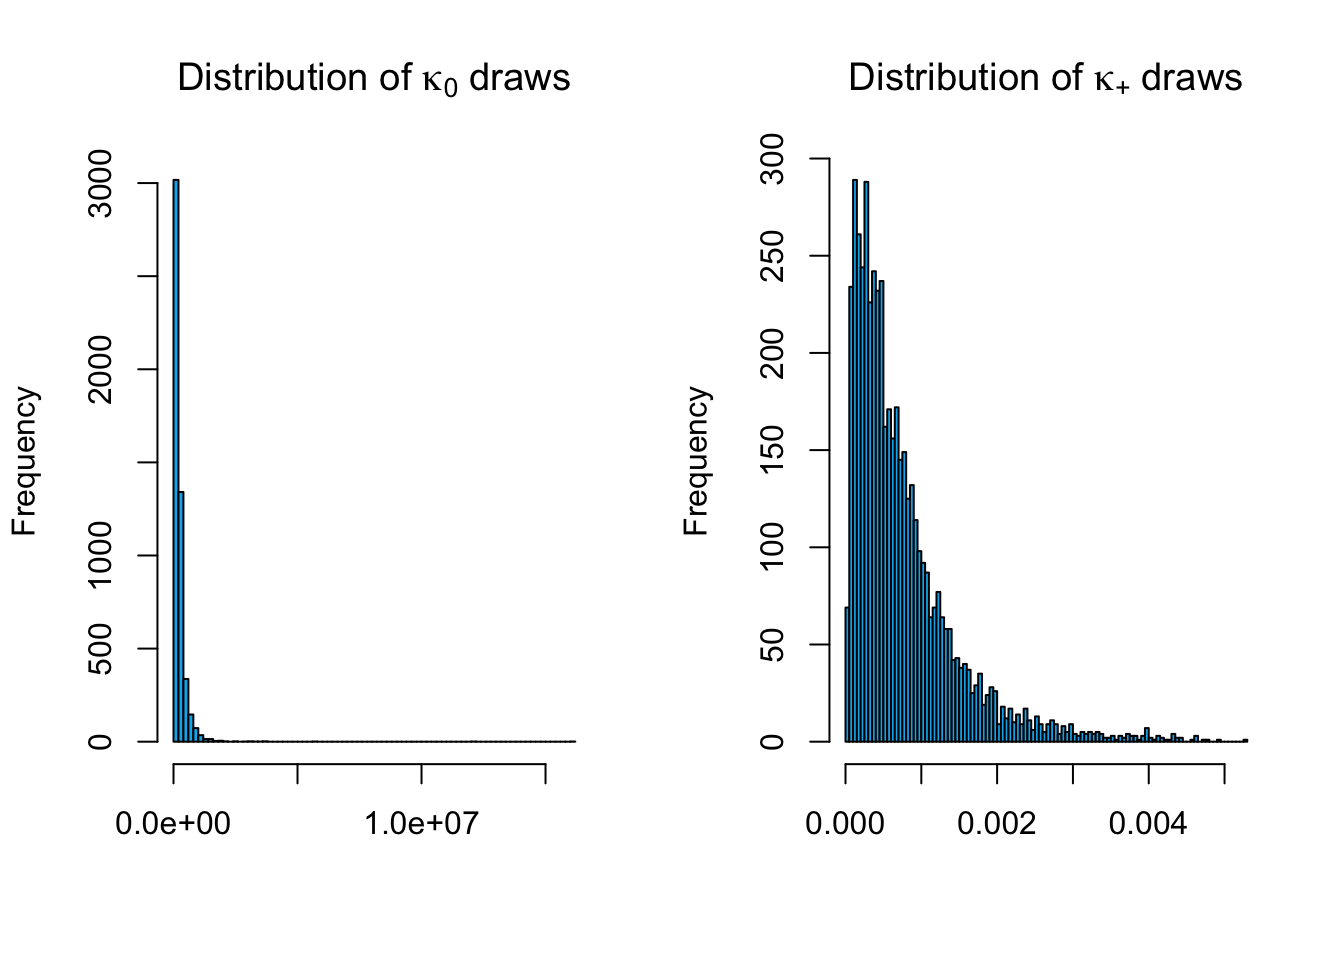
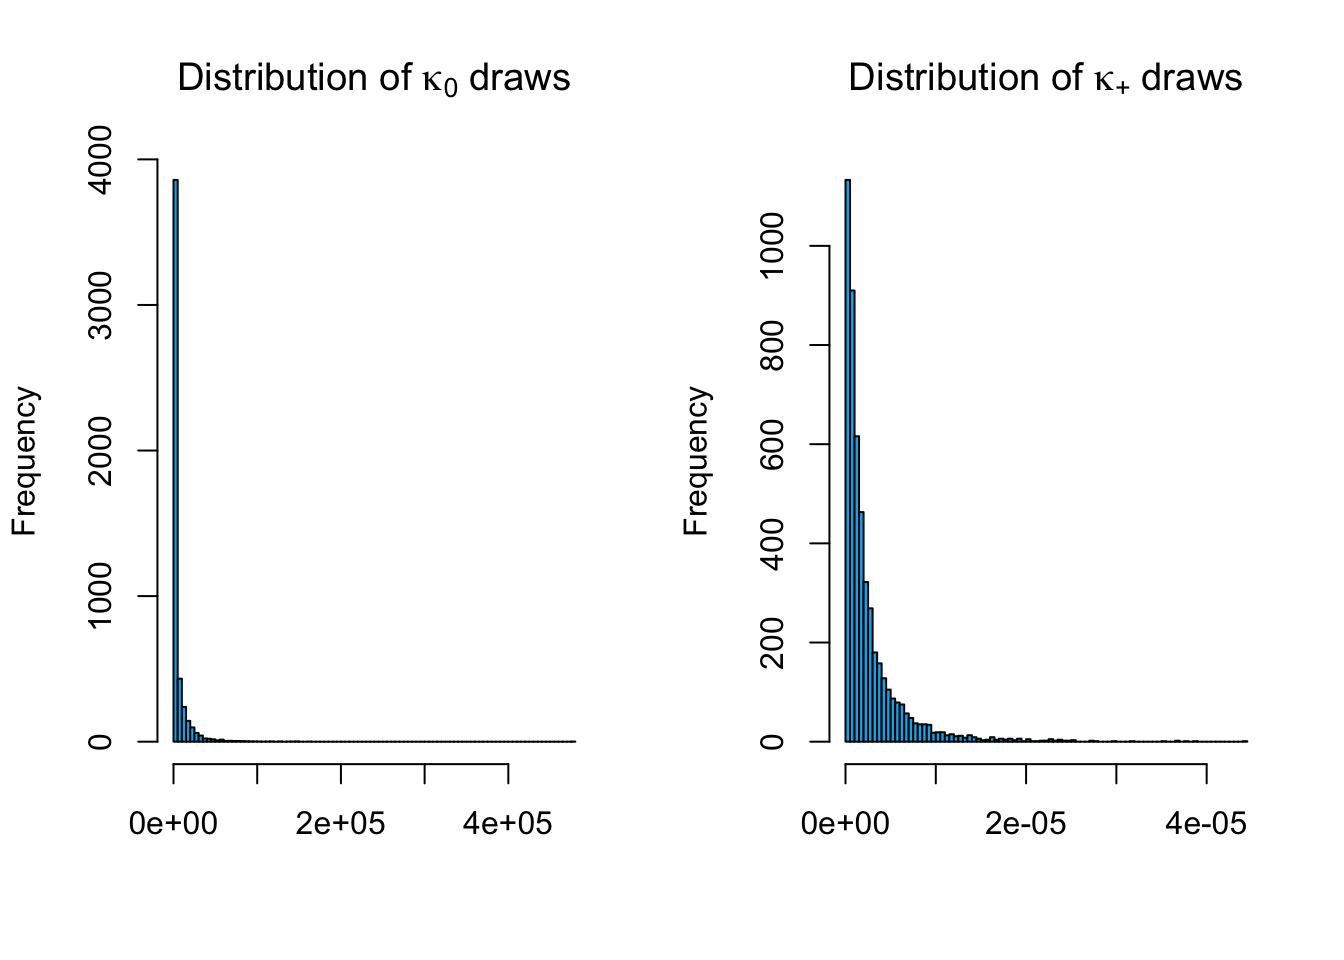
Updated SV Code

diff --git a/docs/index.html b/docs/index.html
@@ -1489,9 +1489,9 @@ B_{+n}^{(s)} \sim \mathcal{N}(b_n^{(s)}V_n \bar B_n, \bar \Omega)
 u_t|X \sim N_N(0_N, diag(\sigma^2_t I_n))
 \]</span> where <span class="math inline">\(\sigma^2 = (\exp(h_1), \dots, \exp(h_T))\)</span> is the <span class="math inline">\(T-\)</span>vector. This introduction of stochastic volatility transforms the posterior parameters of <span class="math inline">\((B_+,B_0)\)</span> as follows: <span class="math display">\[
 \begin{align*}
-&amp;\bar \Omega = (X diag(\sigma^2) X' + \underline \Omega^{-1})^{-1}\\
-&amp;\bar B = (Ydiag(\sigma^2)X' + \underline B \underline \Omega^{-1}) \bar \Omega\\
-&amp;\bar S = (Ydiag(\sigma^2)Y' + \underline S^{-1} + \underline B \underline \Omega^{-1} \underline B' - \bar B \bar \Omega^{-1} \bar B')^{-1}
+&amp;\bar \Omega = (X diag(\sigma^2)^{-1} X' + \underline \Omega^{-1})^{-1}\\
+&amp;\bar B = (Ydiag(\sigma^2)^{-1}X' + \underline B \underline \Omega^{-1}) \bar \Omega\\
+&amp;\bar S = (Ydiag(\sigma^2)^{-1}Y' + \underline S^{-1} + \underline B \underline \Omega^{-1} \underline B' - \bar B \bar \Omega^{-1} \bar B')^{-1}
 \end{align*}
 \]</span> while <span class="math inline">\(\bar \nu = T + \underline \nu\)</span> updates the same way as before.</p>
 <section id="gibbs-sampling-3" class="level3">
@@ -1636,10 +1636,10 @@ u_t|X \sim N_N(0_N, diag(\sigma^2_t I_n))
 <span id="cb52-45"><a href="#cb52-45" aria-hidden="true" tabindex="-1"></a>  </span>
 <span id="cb52-46"><a href="#cb52-46" aria-hidden="true" tabindex="-1"></a>  <span class="co"># Step 3a: compute posterior parameters for B0, B_+</span></span>
 <span id="cb52-47"><a href="#cb52-47" aria-hidden="true" tabindex="-1"></a>  Omega.inv      <span class="ot">=</span> <span class="fu">solve</span>(struct<span class="sc">$</span>kappap[i] <span class="sc">*</span> priors<span class="sc">$</span>Omega)</span>
-<span id="cb52-48"><a href="#cb52-48" aria-hidden="true" tabindex="-1"></a>  Omega.post.inv <span class="ot">=</span> usedata<span class="sc">$</span>X<span class="sc">%*%</span> <span class="fu">diag</span>(sigma2) <span class="sc">%*%</span><span class="fu">t</span>(usedata<span class="sc">$</span>X) <span class="sc">+</span> Omega.inv</span>
+<span id="cb52-48"><a href="#cb52-48" aria-hidden="true" tabindex="-1"></a>  Omega.post.inv <span class="ot">=</span> usedata<span class="sc">$</span>X<span class="sc">%*%</span> <span class="fu">diag</span>(<span class="dv">1</span><span class="sc">/</span>sigma2) <span class="sc">%*%</span><span class="fu">t</span>(usedata<span class="sc">$</span>X) <span class="sc">+</span> Omega.inv</span>
 <span id="cb52-49"><a href="#cb52-49" aria-hidden="true" tabindex="-1"></a>  Omega.post     <span class="ot">=</span> <span class="fu">solve</span>(Omega.post.inv)</span>
-<span id="cb52-50"><a href="#cb52-50" aria-hidden="true" tabindex="-1"></a>  B.post         <span class="ot">=</span> (usedata<span class="sc">$</span>Y<span class="sc">%*%</span><span class="fu">diag</span>(sigma2) <span class="sc">%*%</span><span class="fu">t</span>(usedata<span class="sc">$</span>X) <span class="sc">+</span> priors<span class="sc">$</span>B<span class="sc">%*%</span>Omega.inv) <span class="sc">%*%</span> Omega.post</span>
-<span id="cb52-51"><a href="#cb52-51" aria-hidden="true" tabindex="-1"></a>  S.inv.post     <span class="ot">=</span> usedata<span class="sc">$</span>Y<span class="sc">%*%</span><span class="fu">diag</span>(sigma2) <span class="sc">%*%</span><span class="fu">t</span>(usedata<span class="sc">$</span>Y) <span class="sc">+</span> <span class="fu">solve</span>(struct<span class="sc">$</span>kappa0[i] <span class="sc">*</span> priors<span class="sc">$</span>S) <span class="sc">+</span> priors<span class="sc">$</span>B<span class="sc">%*%</span>Omega.inv<span class="sc">%*%</span><span class="fu">t</span>(priors<span class="sc">$</span>B) <span class="sc">-</span> B.post<span class="sc">%*%</span>Omega.post.inv<span class="sc">%*%</span><span class="fu">t</span>(B.post)</span>
+<span id="cb52-50"><a href="#cb52-50" aria-hidden="true" tabindex="-1"></a>  B.post         <span class="ot">=</span> (usedata<span class="sc">$</span>Y<span class="sc">%*%</span><span class="fu">diag</span>(<span class="dv">1</span><span class="sc">/</span>sigma2) <span class="sc">%*%</span><span class="fu">t</span>(usedata<span class="sc">$</span>X) <span class="sc">+</span> priors<span class="sc">$</span>B<span class="sc">%*%</span>Omega.inv) <span class="sc">%*%</span> Omega.post</span>
+<span id="cb52-51"><a href="#cb52-51" aria-hidden="true" tabindex="-1"></a>  S.inv.post     <span class="ot">=</span> usedata<span class="sc">$</span>Y<span class="sc">%*%</span><span class="fu">diag</span>(<span class="dv">1</span><span class="sc">/</span>sigma2) <span class="sc">%*%</span><span class="fu">t</span>(usedata<span class="sc">$</span>Y) <span class="sc">+</span> <span class="fu">solve</span>(struct<span class="sc">$</span>kappa0[i] <span class="sc">*</span> priors<span class="sc">$</span>S) <span class="sc">+</span> priors<span class="sc">$</span>B<span class="sc">%*%</span>Omega.inv<span class="sc">%*%</span><span class="fu">t</span>(priors<span class="sc">$</span>B) <span class="sc">-</span> B.post<span class="sc">%*%</span>Omega.post.inv<span class="sc">%*%</span><span class="fu">t</span>(B.post)</span>
 <span id="cb52-52"><a href="#cb52-52" aria-hidden="true" tabindex="-1"></a>  </span>
 <span id="cb52-53"><a href="#cb52-53" aria-hidden="true" tabindex="-1"></a>  <span class="co"># Step 3b: draw non-normalised B0 and B_+</span></span>
 <span id="cb52-54"><a href="#cb52-54" aria-hidden="true" tabindex="-1"></a></span>
@@ -1698,38 +1698,38 @@ u_t|X \sim N_N(0_N, diag(\sigma^2_t I_n))
 <p><span class="math display">\[\begin{equation*}
 \left(
 \begin{array}{ccccccccc}
-3.6680247 &amp; 0.000000 &amp; 0.00000 &amp; 0.0000000 &amp; 0.000000 &amp; 0.000000 &amp; 0.0000000 &amp; 0.000000 &amp; 0.00000\\
--0.0684109 &amp; 102.640671 &amp; 0.00000 &amp; 0.0000000 &amp; 0.000000 &amp; 0.000000 &amp; 0.0000000 &amp; 0.000000 &amp; 0.00000\\
--0.0729875 &amp; -138.883754 &amp; 125.43239 &amp; 0.0000000 &amp; 0.000000 &amp; 0.000000 &amp; 0.0000000 &amp; 0.000000 &amp; 0.00000\\
--0.1608860 &amp; -21.969801 &amp; 16.42958 &amp; 2.3554829 &amp; 0.000000 &amp; 0.000000 &amp; 0.0000000 &amp; 0.000000 &amp; 0.00000\\
-0.0422503 &amp; 32.185484 &amp; -24.25083 &amp; -0.7695463 &amp; 3.922436 &amp; 0.000000 &amp; 0.0000000 &amp; 0.000000 &amp; 0.00000\\
--0.2936094 &amp; -17.816178 &amp; 16.40386 &amp; 0.0204842 &amp; 2.013996 &amp; 65.143751 &amp; 0.0000000 &amp; 0.000000 &amp; 0.00000\\
-0.4487480 &amp; 23.087584 &amp; -23.35509 &amp; -0.4463193 &amp; -22.793594 &amp; 0.443299 &amp; 24.3559805 &amp; 0.000000 &amp; 0.00000\\
--0.3166563 &amp; 106.965278 &amp; -63.01837 &amp; -0.0303568 &amp; -1.248753 &amp; -9.817697 &amp; 1.2521857 &amp; 36.584169 &amp; 0.00000\\
--0.7057898 &amp; -1.984246 &amp; -17.74899 &amp; -0.9894988 &amp; -1.055609 &amp; -24.189410 &amp; 0.3422565 &amp; -6.874502 &amp; 96.31359\\
+0.5823611 &amp; 0.0000000 &amp; 0.0000000 &amp; 0.0000000 &amp; 0.0000000 &amp; 0.0000000 &amp; 0.0000000 &amp; 0.000000 &amp; 0.00000\\
+-0.0180063 &amp; 10.9522165 &amp; 0.0000000 &amp; 0.0000000 &amp; 0.0000000 &amp; 0.0000000 &amp; 0.0000000 &amp; 0.000000 &amp; 0.00000\\
+-0.0002969 &amp; -14.5310230 &amp; 13.8577332 &amp; 0.0000000 &amp; 0.0000000 &amp; 0.0000000 &amp; 0.0000000 &amp; 0.000000 &amp; 0.00000\\
+-0.0381754 &amp; -4.4947108 &amp; 3.3257862 &amp; 0.2948792 &amp; 0.0000000 &amp; 0.0000000 &amp; 0.0000000 &amp; 0.000000 &amp; 0.00000\\
+0.1879166 &amp; 0.7736402 &amp; -0.5940286 &amp; -0.0476320 &amp; 0.5006034 &amp; 0.0000000 &amp; 0.0000000 &amp; 0.000000 &amp; 0.00000\\
+-0.1895460 &amp; -2.0354190 &amp; 1.7853922 &amp; -0.0217214 &amp; 0.3356582 &amp; 6.2090215 &amp; 0.0000000 &amp; 0.000000 &amp; 0.00000\\
+0.1307165 &amp; 2.0987027 &amp; -2.9794234 &amp; -0.0446472 &amp; -3.1844378 &amp; -0.3054704 &amp; 3.4140320 &amp; 0.000000 &amp; 0.00000\\
+-0.0620510 &amp; 9.7670606 &amp; -5.7577762 &amp; -0.0249257 &amp; -0.1018675 &amp; -1.5088591 &amp; 0.1010540 &amp; 4.072628 &amp; 0.00000\\
+-0.0231079 &amp; -1.7292859 &amp; -1.1856634 &amp; -0.1260452 &amp; -0.3162180 &amp; -3.2090627 &amp; 0.2410888 &amp; -0.663222 &amp; 11.13832\\
 \end{array} \right)\, .
 \end{equation*}\]</span></p>
 <div class="sourceCode cell-code" id="cb55"><pre class="sourceCode r code-with-copy"><code class="sourceCode r"><span id="cb55-1"><a href="#cb55-1" aria-hidden="true" tabindex="-1"></a>ext3.data_Bp <span class="ot">=</span> <span class="fu">pmatrix</span>(ext3.struct.means<span class="sc">$</span>Bp)</span></code><button title="Copy to Clipboard" class="code-copy-button"><i class="bi"></i></button></pre></div>
 <p><span class="math display">\[\begin{equation*}
 \left(
 \begin{array}{ccccccccccccccccccccccccccccccccccccc}
-0.0051992 &amp; 3.7029668 &amp; 0.0014871 &amp; 0.0153623 &amp; -0.0251093 &amp; 0.0204593 &amp; -0.0088239 &amp; -0.0151821 &amp; 0.0143329 &amp; -0.0000520 &amp; -0.0124589 &amp; 0.0026298 &amp; 0.0136904 &amp; 0.0120190 &amp; 0.0163422 &amp; -0.0087887 &amp; -0.0154584 &amp; 0.0146584 &amp; 0.0052543 &amp; -0.0619276 &amp; 0.0031642 &amp; 0.0109867 &amp; -0.0041928 &amp; 0.0167031 &amp; -0.0050679 &amp; -0.0149936 &amp; 0.0148735 &amp; 0.0057231 &amp; -0.1323663 &amp; 0.0026603 &amp; 0.0125536 &amp; 0.0032467 &amp; 0.0173596 &amp; -0.0052971 &amp; -0.0082909 &amp; 0.0172456 &amp; 0.0030825\\
-0.0032763 &amp; -0.0236875 &amp; 102.6457650 &amp; 0.0020737 &amp; 0.0781768 &amp; 0.0563592 &amp; 0.0077794 &amp; 0.0526988 &amp; 0.0149145 &amp; 0.0062436 &amp; 0.0374029 &amp; 0.0056959 &amp; 0.0064505 &amp; -0.0634487 &amp; 0.0396712 &amp; 0.0109680 &amp; 0.0356181 &amp; 0.0143829 &amp; 0.0056018 &amp; -0.0166790 &amp; 0.0030799 &amp; 0.0046319 &amp; -0.0393725 &amp; 0.0053555 &amp; 0.0132321 &amp; 0.0111432 &amp; 0.0079114 &amp; 0.0051152 &amp; -0.0029237 &amp; 0.0056021 &amp; 0.0077985 &amp; -0.0450418 &amp; -0.0238861 &amp; 0.0103414 &amp; -0.0228932 &amp; 0.0048289 &amp; 0.0082438\\
--0.0023637 &amp; -0.0733708 &amp; -138.8933275 &amp; 125.4242615 &amp; -0.0665368 &amp; -0.0266800 &amp; -0.0213256 &amp; -0.0448924 &amp; -0.0075623 &amp; -0.0104715 &amp; -0.0084557 &amp; -0.0078929 &amp; -0.0053147 &amp; -0.0874658 &amp; -0.0145970 &amp; -0.0170276 &amp; -0.0293040 &amp; -0.0125049 &amp; -0.0097385 &amp; -0.0390785 &amp; -0.0063278 &amp; -0.0025300 &amp; 0.0499212 &amp; 0.0045568 &amp; -0.0198350 &amp; -0.0033095 &amp; -0.0133969 &amp; -0.0096659 &amp; -0.0244327 &amp; -0.0053153 &amp; -0.0012607 &amp; 0.1065274 &amp; 0.0580817 &amp; -0.0244409 &amp; 0.0486920 &amp; -0.0117690 &amp; -0.0073471\\
--0.0002859 &amp; -0.1276088 &amp; -21.9637796 &amp; 16.4345310 &amp; 2.2580015 &amp; 0.0304182 &amp; 0.0070747 &amp; 0.0249897 &amp; 0.0148074 &amp; 0.0057216 &amp; -0.0024213 &amp; 0.0019301 &amp; 0.0039185 &amp; -0.0858084 &amp; -0.0082225 &amp; 0.0068093 &amp; -0.0079321 &amp; 0.0086591 &amp; 0.0025775 &amp; 0.0064040 &amp; 0.0047684 &amp; 0.0039314 &amp; -0.0689117 &amp; -0.0191420 &amp; 0.0061523 &amp; -0.0226356 &amp; 0.0012980 &amp; 0.0029783 &amp; -0.0082191 &amp; 0.0067810 &amp; 0.0078974 &amp; -0.0420818 &amp; -0.0001489 &amp; 0.0062819 &amp; 0.0018919 &amp; -0.0027453 &amp; 0.0017081\\
-0.0039315 &amp; 0.0943002 &amp; 32.1905486 &amp; -24.2417410 &amp; -0.7713432 &amp; 3.9520518 &amp; 0.0001390 &amp; 0.0025212 &amp; 0.0140641 &amp; 0.0064854 &amp; 0.0441111 &amp; 0.0063233 &amp; 0.0124974 &amp; -0.0201999 &amp; -0.0019770 &amp; 0.0026750 &amp; -0.0247044 &amp; 0.0140783 &amp; 0.0055067 &amp; 0.0292983 &amp; 0.0045343 &amp; 0.0089294 &amp; -0.0391547 &amp; -0.0151237 &amp; 0.0024322 &amp; -0.0359199 &amp; 0.0111910 &amp; 0.0021645 &amp; -0.0384651 &amp; 0.0045533 &amp; 0.0075667 &amp; 0.0002279 &amp; -0.0051225 &amp; -0.0010536 &amp; -0.0207374 &amp; 0.0066825 &amp; 0.0007903\\
-0.0036177 &amp; -0.2505331 &amp; -17.7896398 &amp; 16.4255597 &amp; 0.0075575 &amp; 1.9830236 &amp; 65.1704934 &amp; -0.0114442 &amp; 0.0060464 &amp; 0.0165770 &amp; 0.0310454 &amp; 0.0216757 &amp; 0.0209691 &amp; -0.0216660 &amp; -0.0441138 &amp; 0.0314928 &amp; -0.0229334 &amp; 0.0043638 &amp; 0.0164351 &amp; 0.0502848 &amp; 0.0241407 &amp; 0.0203475 &amp; 0.0052788 &amp; -0.0229888 &amp; 0.0277233 &amp; -0.0021401 &amp; 0.0052262 &amp; 0.0135392 &amp; 0.0458516 &amp; 0.0248294 &amp; 0.0199970 &amp; -0.0126884 &amp; -0.0254342 &amp; 0.0265643 &amp; -0.0037378 &amp; 0.0061540 &amp; 0.0133854\\
--0.0009487 &amp; 0.4122940 &amp; 23.0933565 &amp; -23.3522640 &amp; -0.4384092 &amp; -22.7901504 &amp; 0.4547888 &amp; 24.3695320 &amp; -0.0032123 &amp; 0.0023872 &amp; -0.0133366 &amp; 0.0072984 &amp; 0.0025913 &amp; -0.0134466 &amp; -0.0049328 &amp; 0.0108689 &amp; 0.0020702 &amp; -0.0033768 &amp; 0.0034363 &amp; 0.0478084 &amp; 0.0051542 &amp; 0.0041682 &amp; 0.0040924 &amp; 0.0147038 &amp; 0.0087847 &amp; 0.0226046 &amp; -0.0023452 &amp; 0.0042564 &amp; 0.0678273 &amp; 0.0047079 &amp; 0.0036870 &amp; -0.0131829 &amp; 0.0076484 &amp; 0.0095086 &amp; 0.0135388 &amp; -0.0037261 &amp; 0.0080571\\
-0.0024271 &amp; -0.3251771 &amp; 106.9718010 &amp; -63.0151233 &amp; -0.1254701 &amp; -1.3002054 &amp; -9.7982178 &amp; 1.2159635 &amp; 36.5827548 &amp; 0.0037669 &amp; 0.0032957 &amp; 0.0103205 &amp; 0.0064543 &amp; -0.0168453 &amp; -0.0222432 &amp; 0.0181663 &amp; -0.0115131 &amp; -0.0141740 &amp; 0.0024863 &amp; 0.0263823 &amp; 0.0122969 &amp; 0.0110288 &amp; 0.0074405 &amp; 0.0169740 &amp; 0.0120538 &amp; 0.0246321 &amp; -0.0125973 &amp; 0.0034602 &amp; 0.0478696 &amp; 0.0146802 &amp; 0.0120300 &amp; 0.0671669 &amp; 0.0426350 &amp; 0.0105340 &amp; 0.0443495 &amp; -0.0082345 &amp; 0.0059019\\
-0.0020966 &amp; -0.7124388 &amp; -1.9740409 &amp; -17.7460651 &amp; -0.9712744 &amp; -1.1045457 &amp; -24.1700480 &amp; 0.3010181 &amp; -6.8605462 &amp; 96.3219459 &amp; 0.0036103 &amp; 0.0076088 &amp; 0.0039120 &amp; 0.0095816 &amp; -0.0359929 &amp; 0.0204332 &amp; -0.0244519 &amp; 0.0085058 &amp; 0.0009362 &amp; 0.0005752 &amp; 0.0081008 &amp; 0.0028582 &amp; 0.0048784 &amp; -0.0056089 &amp; 0.0157814 &amp; 0.0045187 &amp; 0.0042193 &amp; 0.0006963 &amp; 0.0196646 &amp; 0.0066144 &amp; 0.0035100 &amp; 0.0533826 &amp; 0.0197728 &amp; 0.0156794 &amp; 0.0293258 &amp; -0.0016987 &amp; -0.0004925\\
+0.0000473 &amp; 0.5819035 &amp; -0.0000898 &amp; 0.0002721 &amp; -0.0008776 &amp; 0.0000839 &amp; -0.0002470 &amp; -0.0002229 &amp; 0.0004714 &amp; 0.0003853 &amp; -0.0012357 &amp; -0.0001520 &amp; 0.0002044 &amp; 0.0001417 &amp; -0.0006046 &amp; -0.0003269 &amp; -0.0007165 &amp; 0.0004750 &amp; 0.0007465 &amp; -0.0032997 &amp; -0.0000942 &amp; 0.0001016 &amp; -0.0000724 &amp; -0.0004745 &amp; 0.0002454 &amp; -0.0008343 &amp; 0.0005156 &amp; 0.0007105 &amp; -0.0042996 &amp; -0.0000733 &amp; 0.0001222 &amp; 0.0005070 &amp; -0.0005230 &amp; 0.0002818 &amp; -0.0006285 &amp; 0.0005601 &amp; 0.0006233\\
+0.0002879 &amp; -0.0163118 &amp; 10.9526226 &amp; 0.0001817 &amp; 0.0036114 &amp; 0.0014587 &amp; 0.0009472 &amp; 0.0018018 &amp; 0.0010182 &amp; 0.0005687 &amp; 0.0021601 &amp; 0.0005868 &amp; 0.0004061 &amp; -0.0044312 &amp; 0.0014935 &amp; 0.0011725 &amp; 0.0017627 &amp; 0.0007278 &amp; 0.0004480 &amp; -0.0021838 &amp; 0.0005056 &amp; 0.0004350 &amp; -0.0016261 &amp; -0.0000792 &amp; 0.0013877 &amp; 0.0009847 &amp; 0.0003851 &amp; 0.0004163 &amp; -0.0003229 &amp; 0.0006547 &amp; 0.0008417 &amp; -0.0009343 &amp; -0.0007030 &amp; 0.0010720 &amp; 0.0001360 &amp; 0.0002695 &amp; 0.0008103\\
+-0.0001134 &amp; -0.0001229 &amp; -14.5318261 &amp; 13.8569808 &amp; -0.0011952 &amp; 0.0001937 &amp; -0.0012418 &amp; -0.0011270 &amp; -0.0002486 &amp; -0.0006643 &amp; -0.0002779 &amp; -0.0007175 &amp; -0.0005115 &amp; -0.0034934 &amp; 0.0006020 &amp; -0.0011619 &amp; -0.0008720 &amp; -0.0006406 &amp; -0.0008361 &amp; -0.0018379 &amp; -0.0004972 &amp; -0.0002683 &amp; 0.0022818 &amp; 0.0004092 &amp; -0.0014965 &amp; -0.0002979 &amp; -0.0008543 &amp; -0.0006342 &amp; -0.0008244 &amp; -0.0006315 &amp; -0.0004919 &amp; 0.0031894 &amp; 0.0014382 &amp; -0.0016836 &amp; 0.0008347 &amp; -0.0007224 &amp; -0.0007678\\
+-0.0000967 &amp; -0.0370685 &amp; -4.4946094 &amp; 3.3257093 &amp; 0.2901747 &amp; 0.0003551 &amp; 0.0003068 &amp; 0.0002101 &amp; 0.0006158 &amp; -0.0002503 &amp; -0.0016009 &amp; -0.0001047 &amp; -0.0001700 &amp; -0.0023332 &amp; -0.0007094 &amp; 0.0003010 &amp; -0.0002893 &amp; 0.0001457 &amp; -0.0004353 &amp; -0.0000746 &amp; -0.0000384 &amp; -0.0001950 &amp; -0.0016596 &amp; -0.0005384 &amp; -0.0000640 &amp; -0.0001756 &amp; -0.0001376 &amp; -0.0004169 &amp; -0.0006422 &amp; 0.0001531 &amp; 0.0001138 &amp; -0.0015843 &amp; -0.0001122 &amp; 0.0000656 &amp; 0.0004243 &amp; -0.0005121 &amp; -0.0003246\\
+0.0000866 &amp; 0.1883226 &amp; 0.7734930 &amp; -0.5940426 &amp; -0.0482910 &amp; 0.5011590 &amp; -0.0004500 &amp; -0.0005670 &amp; 0.0008017 &amp; 0.0003622 &amp; -0.0008023 &amp; -0.0000424 &amp; 0.0002968 &amp; -0.0007362 &amp; -0.0004342 &amp; -0.0003369 &amp; -0.0014351 &amp; 0.0005701 &amp; 0.0004657 &amp; -0.0020289 &amp; -0.0001424 &amp; 0.0001555 &amp; -0.0003763 &amp; -0.0012348 &amp; -0.0000968 &amp; -0.0020754 &amp; 0.0003417 &amp; 0.0003219 &amp; -0.0032221 &amp; -0.0000534 &amp; 0.0000803 &amp; 0.0004477 &amp; -0.0003544 &amp; -0.0002650 &amp; -0.0009463 &amp; 0.0000851 &amp; 0.0001664\\
+0.0003219 &amp; -0.1900672 &amp; -2.0339231 &amp; 1.7865225 &amp; -0.0198788 &amp; 0.3340966 &amp; 6.2105101 &amp; -0.0001814 &amp; 0.0000211 &amp; 0.0007159 &amp; 0.0012983 &amp; 0.0012884 &amp; 0.0010517 &amp; -0.0007041 &amp; -0.0006789 &amp; 0.0015234 &amp; 0.0004396 &amp; 0.0000836 &amp; 0.0004880 &amp; 0.0031897 &amp; 0.0013009 &amp; 0.0010143 &amp; -0.0004349 &amp; -0.0009122 &amp; 0.0015933 &amp; 0.0003730 &amp; 0.0001222 &amp; 0.0003116 &amp; 0.0030695 &amp; 0.0013568 &amp; 0.0010378 &amp; -0.0007659 &amp; -0.0009316 &amp; 0.0014063 &amp; 0.0005571 &amp; 0.0000822 &amp; 0.0004391\\
+0.0000778 &amp; 0.1304895 &amp; 2.0993104 &amp; -2.9789137 &amp; -0.0452291 &amp; -3.1841112 &amp; -0.3042989 &amp; 3.4142124 &amp; -0.0000721 &amp; 0.0003995 &amp; 0.0005404 &amp; 0.0007518 &amp; 0.0005311 &amp; -0.0004814 &amp; 0.0001109 &amp; 0.0009721 &amp; 0.0000022 &amp; 0.0001905 &amp; 0.0003942 &amp; 0.0022671 &amp; 0.0005755 &amp; 0.0006292 &amp; 0.0002499 &amp; 0.0009462 &amp; 0.0008216 &amp; 0.0010546 &amp; 0.0003724 &amp; 0.0004860 &amp; 0.0029828 &amp; 0.0005241 &amp; 0.0005296 &amp; 0.0001220 &amp; 0.0008046 &amp; 0.0010033 &amp; 0.0007237 &amp; 0.0003511 &amp; 0.0007030\\
+0.0002788 &amp; -0.0638934 &amp; 9.7674282 &amp; -5.7575627 &amp; -0.0292385 &amp; -0.1033291 &amp; -1.5079585 &amp; 0.1004006 &amp; 4.0722142 &amp; 0.0002107 &amp; -0.0015136 &amp; 0.0006069 &amp; 0.0003871 &amp; -0.0007925 &amp; -0.0007284 &amp; 0.0007810 &amp; -0.0001518 &amp; -0.0011905 &amp; 0.0002039 &amp; 0.0004763 &amp; 0.0008920 &amp; 0.0009181 &amp; -0.0009357 &amp; 0.0002824 &amp; 0.0004239 &amp; 0.0010467 &amp; -0.0011090 &amp; 0.0002887 &amp; 0.0029099 &amp; 0.0008848 &amp; 0.0009068 &amp; 0.0026838 &amp; 0.0016959 &amp; 0.0003344 &amp; 0.0019841 &amp; -0.0008226 &amp; 0.0002046\\
+0.0001573 &amp; -0.0265485 &amp; -1.7286463 &amp; -1.1853250 &amp; -0.1244460 &amp; -0.3176151 &amp; -3.2079750 &amp; 0.2396646 &amp; -0.6623632 &amp; 11.1386235 &amp; -0.0022746 &amp; 0.0004374 &amp; 0.0003866 &amp; 0.0001775 &amp; -0.0008317 &amp; 0.0009392 &amp; -0.0004865 &amp; 0.0007112 &amp; -0.0001093 &amp; -0.0018223 &amp; 0.0004625 &amp; 0.0004152 &amp; -0.0015188 &amp; 0.0001630 &amp; 0.0006610 &amp; 0.0004757 &amp; 0.0004523 &amp; -0.0000956 &amp; -0.0010717 &amp; 0.0004025 &amp; 0.0003419 &amp; 0.0012240 &amp; 0.0006039 &amp; 0.0007910 &amp; 0.0009191 &amp; 0.0001727 &amp; -0.0001384\\
 \end{array} \right)\, .
 \end{equation*}\]</span></p>
 <div class="sourceCode cell-code" id="cb56"><pre class="sourceCode r code-with-copy"><code class="sourceCode r"><span id="cb56-1"><a href="#cb56-1" aria-hidden="true" tabindex="-1"></a>ext3.data_kappa0 <span class="ot">=</span> <span class="fu">pmatrix</span>(ext3.struct.means<span class="sc">$</span>kappa0)</span></code><button title="Copy to Clipboard" class="code-copy-button"><i class="bi"></i></button></pre></div>
 <p><span class="math display">\[\begin{equation*}
-240295.624517065 \end{equation*}\]</span></p>
+5123.96111738475 \end{equation*}\]</span></p>
 <div class="sourceCode cell-code" id="cb57"><pre class="sourceCode r code-with-copy"><code class="sourceCode r"><span id="cb57-1"><a href="#cb57-1" aria-hidden="true" tabindex="-1"></a>ext3.data_kappap <span class="ot">=</span> <span class="fu">pmatrix</span>(ext3.struct.means<span class="sc">$</span>kappap)</span></code><button title="Copy to Clipboard" class="code-copy-button"><i class="bi"></i></button></pre></div>
 <p><span class="math display">\[\begin{equation*}
-0.000762880666081118 \end{equation*}\]</span></p>
+2.6055895621501e-06 \end{equation*}\]</span></p>
 <div class="cell">
 <div class="cell-output-display">
 <p><img src="index_files/figure-html/ext3 histogram of kappa draws-1.png" class="img-fluid" width="672"></p>
